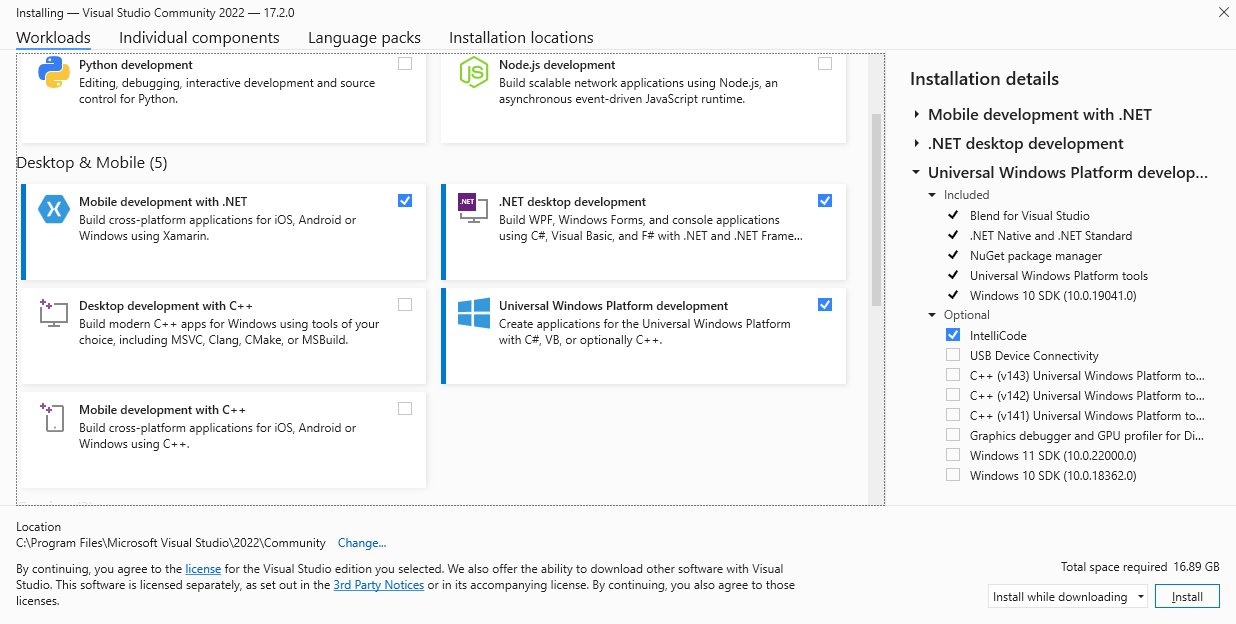
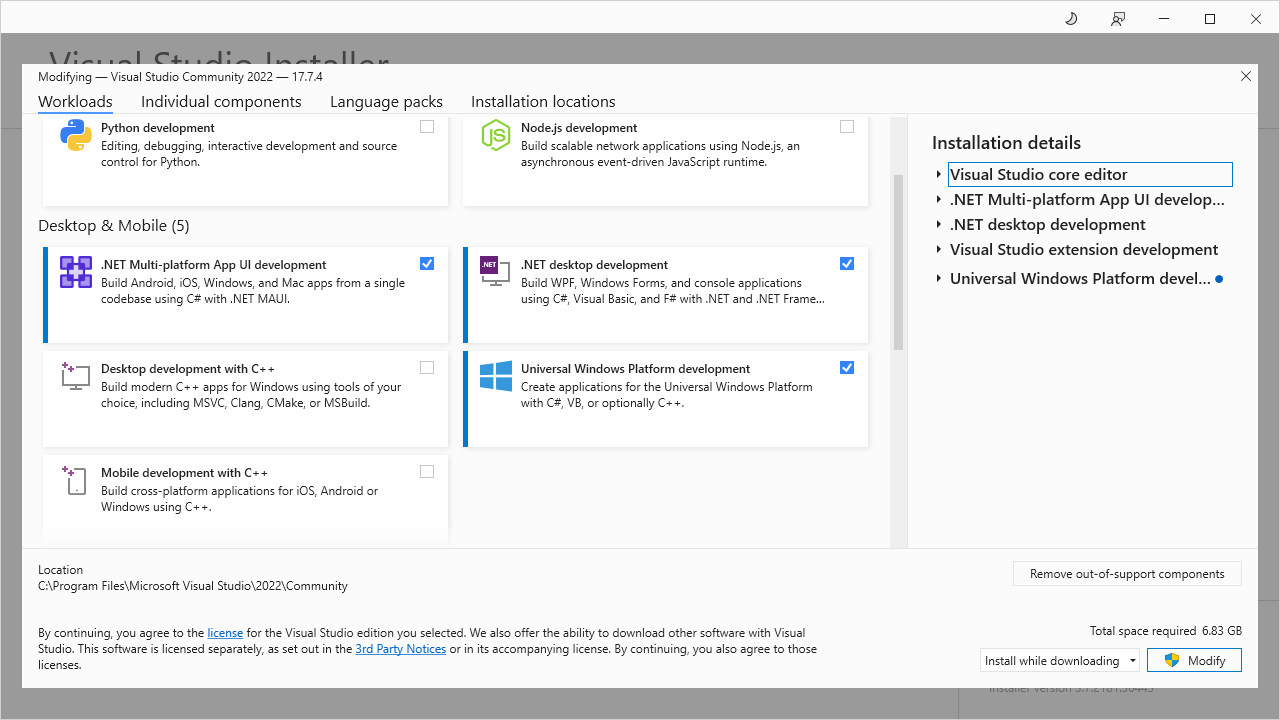
Updataing Docs: Setting Up Your Development Environment Windows (#8071)
* Updated image to show current workloads where mobile now shows MAUI instead of Xamarian

* Moved prior version information into a more visial Alert box

* Adjusted paragraph to be more verbose and include Note alert about visual studio editions

* Changed WHen to When

* Adjusted workload list to use nested bullets and group by mandatory vs optional

* Information about needing DirectX runtime moved inside an Important alert box to visually draw attention.

* Updated Extension Manager image to reflect the current 3.8.1.303 version

* Specify MonoGame projects

* Specify the full name of the extension and put it in bold

* Updated steps to install extension to be more verbose for new users not familar with installing Visual Studio
extensions

* `any` changed to `either`

* Removed redundent information concerning Visual Studio versions

* Removed alert about Visual Studio 2022 requirement. Tempaltes are not avaialble on prior versions and not supported so 2022 version is implied.

Changed region(s): [[0.0, 0.0, 1.0, 1.0], [0.3074, 0.6394, 0.3382, 0.6699]]

diff --git a/Documentation/articles/getting_started/1_setting_up_your_development_environment_windows.md b/Documentation/articles/getting_started/1_setting_up_your_development_environment_windows.md
@@ -2,35 +2,58 @@
 
 This section provides a step-by-step guide for setting up your development environment on Windows.
 
-MonoGame can work with most .NET compatible tools, but we recommend [Visual Studio 2022](https://visualstudio.microsoft.com/vs/) (prior versions are not supported with MonoGame 3.8.1).
+MonoGame can work with most .NET compatible tools, but we recommend [Visual Studio 2022](https://visualstudio.microsoft.com/vs/)
 
 Alternatively, you can use [JetBrains Rider](https://www.jetbrains.com/rider/) or [Visual Studio Code](https://code.visualstudio.com/).
 
 ## [Recommended] Install Visual Studio 2022
 
-Before using MonoGame, you will need to install [Visual Studio 2022](https://visualstudio.microsoft.com/vs/) or later (any edition, including Community) with the following workloads, depending on your desired [target platform(s)](~/platforms.md):
+Before using MonoGame, you will need to install [Visual Studio 2022](https://visualstudio.microsoft.com/vs/)
 
-* .NET desktop development (mandatory for all platforms)
-* Mobile Development with .NET (optional, if you wish to target Android, iOS, or iPadOS)
-* Universal Windows Platform development (optional, if you wish to build for the Windows Store, or Xbox)
+When installing Visual Studio, the following workloads are required depending on your desired [target platform(s)](~/platforms.md):
+
+* Mandatory for all platforms:
+    * **.Net desktop development**
+* Optional
+    * **.Net Multi-platform App UI Development** if you wish to target Android, iOS, or iPadOS.
+    * **Universal Windows Platform development** if you wish to build for Windows store or Xbox.
 
 ![Visual Studio optional components](~/images/getting_started/1_installer_vs_components.png)
 
-If you are targeting the standard Windows DirectX backend, you will also need [the DirectX June 2010 runtime](https://www.microsoft.com/en-us/download/details.aspx?id=8109) for audio and gamepads to work properly.
+> [!IMPORTANT]
+> If you are targeting the standard Windows DirectX backend, you will also need [the DirectX June 2010 runtime](https://www.microsoft.com/en-us/download/details.aspx?id=8109) for audio and gamepads to work properly.
 
 ### Install MonoGame extension for Visual Studio 2022
 
-To create new projects from within Visual Studio 2022, you will need to install the MonoGame extension, which can be installed from "*Extensions -> Manage Extensions*" in the Visual Studio 2022 menu bar.
+To create new MonoGame projects from within Visual Studio 2022, you will need to install the **MonoGame Framework C# project templates** extension.  The following steps demonstrate how to install the extension.
+
+1. Launch Visual Studio 2022
+2. Select **Continue without code**.  This will launch Visual Studio without any project or solution opened.
+
+![Visual Studio Launcher Continue Without Code](~/images/getting_started/1_ContinueWithoutCode.png)
+
+3. Click "*Extensions -> Manage Extensions* in the Visual Studio 2022 menu bar.  This will open the Manage Extensions dialog window.
+
+![Extensions -> Manage Extensions Menu Selection](~/images/getting_started/1_VisualStudioExtensionMenu.png)
+
+4. Use the search box in the top-right corner of the Manage Extensions dialog window to search for **MonoGame**, then click the **MonoGame Framework C# project templates** extension as shown below and download it to install it.
 
 ![Visual Studio Extension Manager](~/images/getting_started/1_VisualStudioExtensionManager.png)
 
-Once it is open, simply search for **MonoGame** in the top right search window, as shown above, and install the "MonoGame Framework C# project templates" (make sure that it is version 3.8.1 or above).  You now have the MonoGame templates installed, ready to create new projects.
+
+5. After it is downloaded, an alert will appear at the bottom of the Manage Extensions window that states "Your changes will be scheduled.  The modifications will begin when all Microsoft Visual Studio windows are closed."  Click the **Close** button, then close Visual Studio 2022.
+
+6. After closing Visual Studio 2022, a VSIX Installer window will open confirming that you want to install the **MonoGame Framework C# project templates** extension.  Click the **Modify** button to accept the install.
+
+![VSIX Installer Window](~/images/getting_started/1_VSIXInstallerWindow.png)
+
+You now have the MonoGame templates installed and are ready to create new projects.
 
 **Next up:** [Creating a new project](2_creating_a_new_project_vs.md)
 
 ## [Alternative] Install the .NET 6 SDK (compatible with JetBrains Rider and Visual Studio Code)
 
-If you prefer to use JetBrains Rider or Visual Studio Code, and after installing any of them, you will also need to [install the .NET 6 SDK](https://dotnet.microsoft.com/en-us/download/dotnet/6.0).
+If you prefer to use JetBrains Rider or Visual Studio Code, and after installing either of them, you will also need to [install the .NET 6 SDK](https://dotnet.microsoft.com/en-us/download/dotnet/6.0).
 
 Once the .NET 6 SDK is installed, you can open a Command Prompt and install the MonoGame templates by typing the following command:
 
